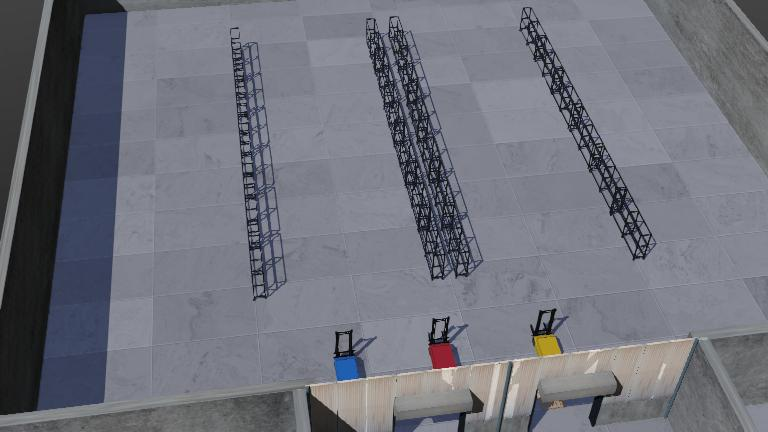
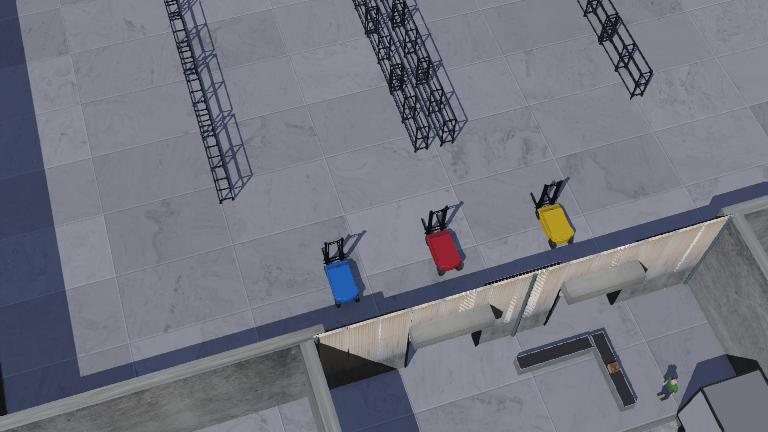
Enhance auto controller with rear-wheel steering functionality and update world file with new viewpoint settings

diff --git a/controllers/auto_controller/auto_controller.py b/controllers/auto_controller/auto_controller.py
@@ -1,4 +1,76 @@
 from controller import Robot, Motor, Supervisor
+import math
+
+def normalize_angle(angle):
+    """Normalize angle to [-pi, pi]."""
+    return (angle + math.pi) % (2 * math.pi) - math.pi
+
+
+def get_yaw_from_rotation(rotation):
+    """
+    Webots rotation = [ax, ay, az, angle]
+    For ground robots, yaw ≈ az * angle
+    """
+    _, _, az, angle = rotation
+    return normalize_angle(az * angle)
+
+
+def ackermann_rear_wheel_angles(wheelbase, track_width, turn_radius):
+    """
+    Rear-wheel Ackermann angles (radians)
+    """
+    inner = math.atan(wheelbase / (turn_radius - track_width / 2))
+    outer = math.atan(wheelbase / (turn_radius + track_width / 2))
+    return inner, outer
+
+def turn_n_degrees_rear_steer(
+    robot,
+    translation_field,
+    rotation_field,
+    target_deg,
+    wheelbase=0.35,
+    track_width=0.25,
+    turn_radius=1.0,
+    drive_speed=2.0
+):
+    """
+    Turn the robot by N degrees using rear-wheel steering.
+    """
+    # Initial yaw
+    start_yaw = get_yaw_from_rotation(rotation_field.getSFRotation())
+    target_yaw = normalize_angle(start_yaw + math.radians(target_deg))
+
+    # Compute steering angles
+    delta_inner, delta_outer = ackermann_rear_wheel_angles(
+        wheelbase, track_width, turn_radius
+    )
+
+    # Left turn
+    if target_deg > 0:
+        rear_left_steer_motor.setPosition(-delta_inner)
+        rear_right_steer_motor.setPosition(-delta_outer)
+    else:
+        rear_left_steer_motor.setPosition(delta_outer)
+        rear_right_steer_motor.setPosition(delta_inner)
+
+    # Drive forward
+    front_left_motor.setVelocity(drive_speed)
+    front_right_motor.setVelocity(drive_speed)
+
+    # Control loop
+    while robot.step(timestep) != -1:
+        current_yaw = get_yaw_from_rotation(rotation_field.getSFRotation())
+        yaw_error = normalize_angle(target_yaw - current_yaw)
+
+        if abs(yaw_error) < math.radians(1.0):  # 1 degree tolerance
+            break
+
+    # Stop + straighten
+    front_left_motor.setVelocity(0.0)
+    front_right_motor.setVelocity(0.0)
+    rear_left_steer_motor.setPosition(0.0)
+    rear_right_steer_motor.setPosition(0.0)
+
 
 robot = Supervisor()
 timestep = int(robot.getBasicTimeStep())
@@ -15,6 +87,8 @@ speed = -2.0
 max_steer_angle = 1.0 
 min_forklift_height = 0.001
 max_forklift_height = 0.1
+wheel_base = 0.83
+track_width = 0.63
 
 # Motors
 front_left_motor: Motor = robot.getDevice("front_left_motor")
@@ -42,11 +116,26 @@ rear_right_steer_motor.setPosition(0.0)
 translation_field = robot.getFromDef("FORKLIFT").getField("translation")
 rotation_field = robot.getFromDef("FORKLIFT").getField("rotation")
 
+turned = False
 while robot.step(timestep) != -1:
     current_pos = translation_field.getSFVec3f()
     current_rotation = rotation_field.getSFRotation()
 
     print(f"Current position: {current_pos}")
     print(f"Current rotation: {current_rotation}")
+
+    if not turned:
+        print("Turning 90 degrees...")
+        turn_n_degrees_rear_steer(
+            robot,
+            translation_field,
+            rotation_field,
+            target_deg=-90,
+            wheelbase=wheel_base,
+            track_width=track_width,
+            turn_radius=1.0,
+            drive_speed=-2.0
+        )
+        turned = True
 
 
